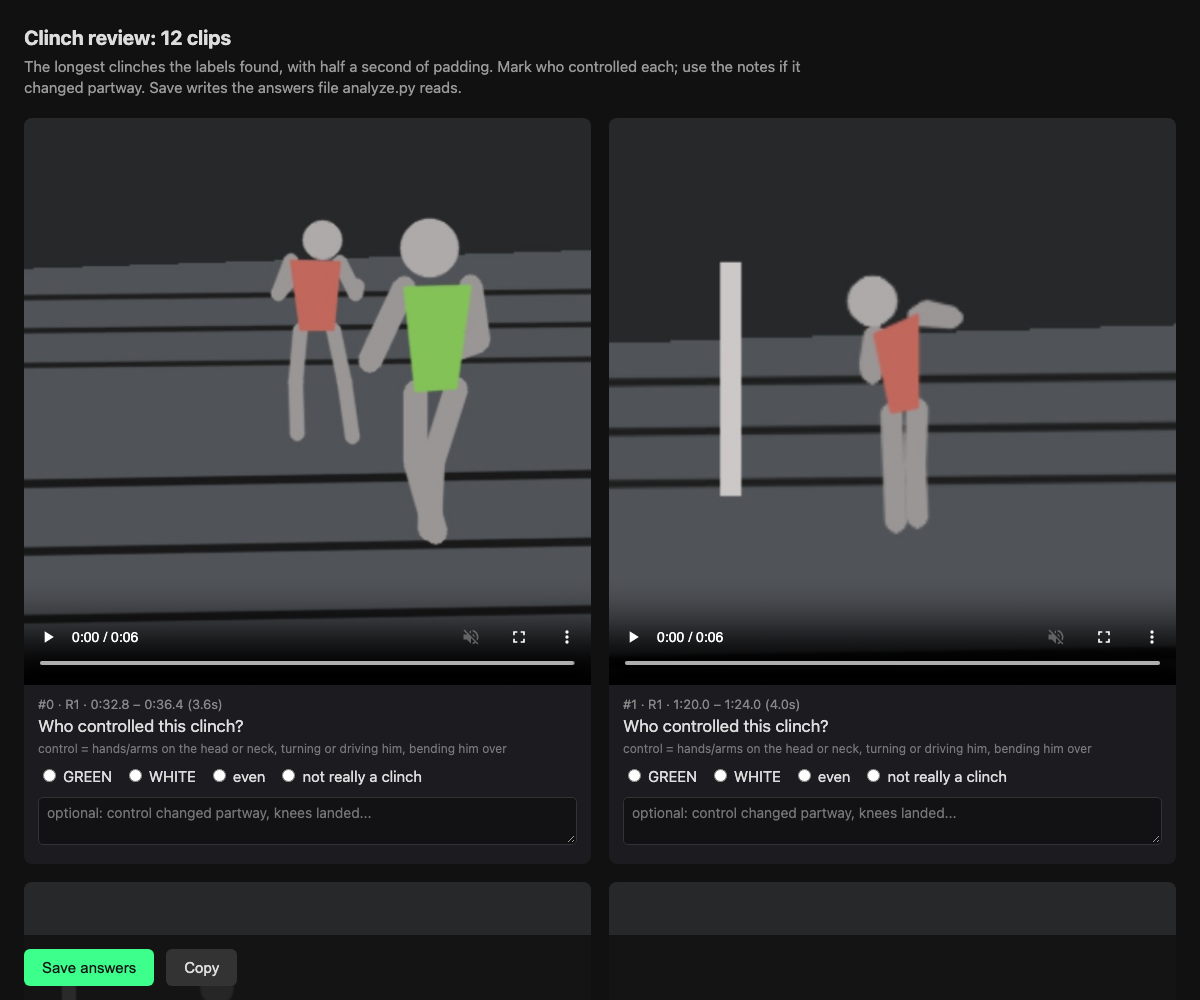
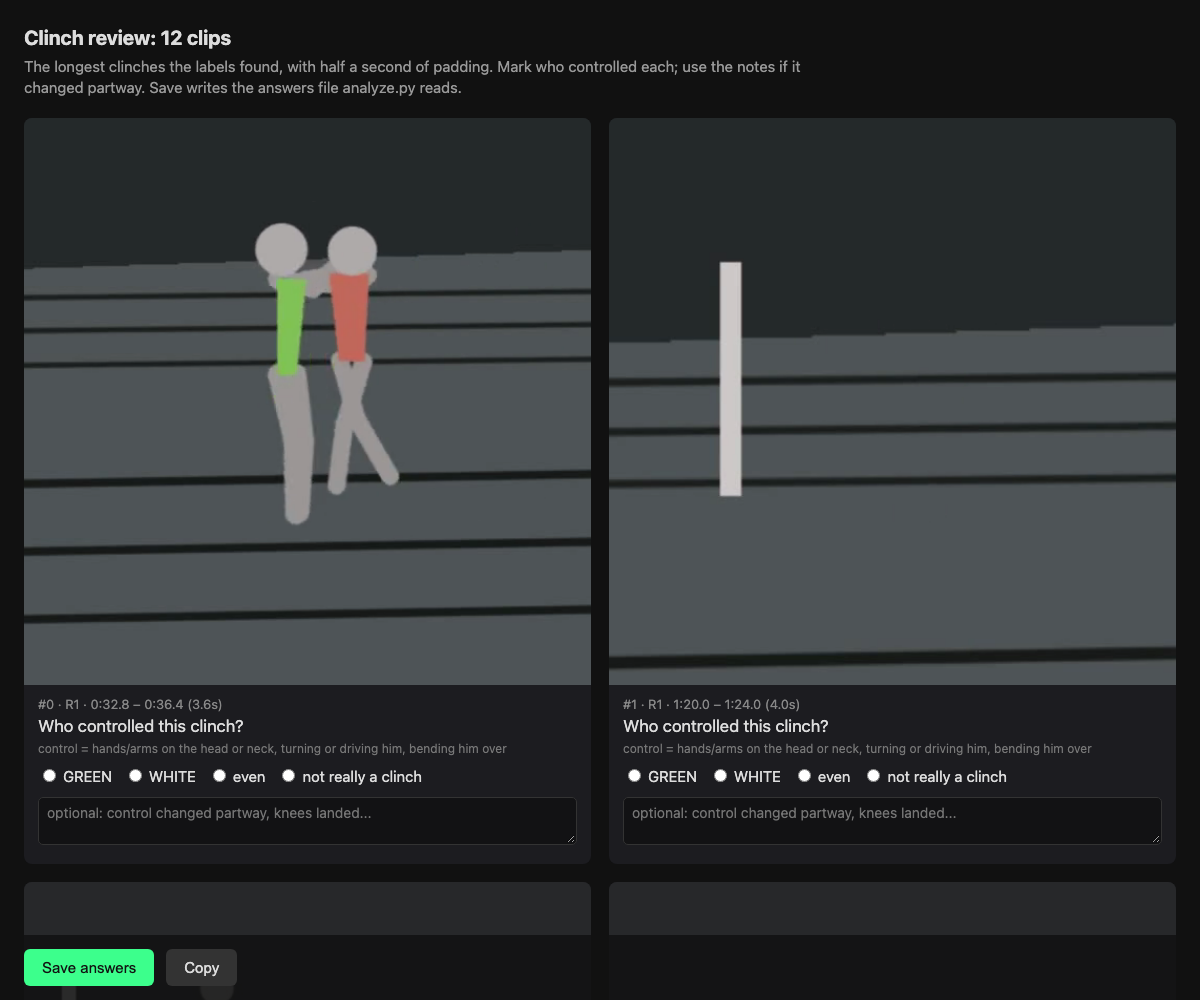
Add docs/make_screenshots.py to regenerate the README images
Builds a placeholder-only demo workdir from a fight, picks a clean,
well-tracked strike for the overlay and the labelling window with both
fighters visible, renders them as mannequins, then screenshots the
pipeline UI and both review pages with headless Chrome.

Changed region(s): [[0.0, 0.589, 0.9867, 0.682], [0.2158, 0.217, 0.4317, 0.558], [0.7092, 0.279, 0.8017, 0.527]]

diff --git a/docs/make_screenshots.py b/docs/make_screenshots.py
@@ -1,0 +1,210 @@
+"""Regenerate the README images in docs/ from a real fight, without showing real footage.
+
+    uv run python docs/make_screenshots.py                       # uses private/fight.json
+    uv run python docs/make_screenshots.py --config private/fight.json --overlay-at 392.4
+
+What it does:
+  1. builds a demo workdir (default private/demo) next to the fight: links to its pose
+     data, copies of its labels and clinch answers, and a config with a neutral timecode
+  2. renders everything there in --placeholder mode (tracked skeletons drawn as mannequins
+     on a drawn ring): review pages, an overlay clip, one labelling sheet
+  3. starts the pipeline UI on the demo workdir, runs one job so the log has output, and
+     screenshots the UI and both review pages with headless Chrome
+
+Needs: the fight's tracks + keypoints (track.py, analyze.py) and labels (merge_labels.py);
+Chrome or Chromium ($CHROME to point at it).
+"""
+import argparse
+import glob
+import json
+import os
+import pickle
+import shutil
+import socket
+import subprocess
+import sys
+import time
+import urllib.request
+
+ROOT = os.path.dirname(os.path.dirname(os.path.abspath(__file__)))
+sys.path.insert(0, ROOT)
+import fightconfig  # noqa: E402
+
+DOCS = os.path.join(ROOT, "docs")
+PY = sys.executable
+
+
+def sh(cmd, env=None):
+    print("+", " ".join(os.path.relpath(c, ROOT) if os.path.isabs(c) else c for c in cmd))
+    subprocess.run(cmd, cwd=ROOT, env={**os.environ, **(env or {})}, check=True,
+                   stdout=subprocess.DEVNULL)
+
+
+def find_chrome():
+    for c in (os.environ.get("CHROME"),
+              "/Applications/Google Chrome.app/Contents/MacOS/Google Chrome",
+              "/Applications/Chromium.app/Contents/MacOS/Chromium",
+              shutil.which("google-chrome"), shutil.which("chromium"), shutil.which("chromium-browser")):
+        if c and os.path.exists(c):
+            return c
+    sys.exit("Chrome/Chromium not found; set $CHROME")
+
+
+def build_demo(src, demo_dir):
+    """A workdir that reuses the fight's data but only ever holds placeholder media."""
+    if os.path.exists(demo_dir):
+        shutil.rmtree(demo_dir)
+    for d in ("data", "labels/review", "labels/strips", "out"):
+        os.makedirs(os.path.join(demo_dir, d))
+    for f in ["fight.mp4", "tracks.pkl", "K.pkl"] + [os.path.basename(p) for p in
+                                                     glob.glob(src.path("data", "tracks_app_*.pkl"))]:
+        target = os.path.abspath(src.path("data", f))
+        if os.path.exists(target):
+            os.symlink(target, os.path.join(demo_dir, "data", f))
+    for p in glob.glob(src.path("labels", "r*_events*.json")):
+        shutil.copy(p, os.path.join(demo_dir, "labels"))
+    for p in glob.glob(src.path("labels", "strips", "manifest_r*.json")):
+        shutil.copy(p, os.path.join(demo_dir, "labels", "strips"))
+    data = json.loads(json.dumps(src.data))
+    data.update(name="demo (placeholder media)", workdir=os.path.relpath(demo_dir, ROOT), official_result=None)
+    data["video"] = {"source": "path/to/full-event.mp4", "start": "0:00:00"}  # neutral timecode
+    cfg_path = os.path.join(demo_dir, "fight.json")
+    json.dump(data, open(cfg_path, "w"), indent=2)
+    return cfg_path
+
+
+def both_tracked(K, t):
+    import numpy as np
+
+    return all(t < len(K[n]) and not np.isnan(K[n][t, [5, 6, 11, 12], 0]).any() for n in K)
+
+
+def pick_moment(cfg, K):
+    """A clean strike (reviewed, if there was a review) that reads well in one frame: both
+    fighters tracked for as long as possible around it, and no other strike right next to it."""
+    cands = []
+    for r in range(1, len(cfg.rounds) + 1):
+        for name in (f"r{r}_events_corrected.json", f"r{r}_events.json"):
+            p = cfg.path("labels", name)
+            if not os.path.exists(p):
+                continue
+            ev = json.load(open(p))["strikes"]
+            for e in ev:
+                if e["outcome"] != "clean" or ("p_land" in e and not e.get("verified")):
+                    continue
+                span = sum(both_tracked(K, t) for t in range(e["t"] - 45, e["t"] + 45))
+                crowd = sum(1 for o in ev if o is not e and abs(o["t"] - e["t"]) <= 12)
+                cands.append((span - 30 * crowd, r, e["t"] / 30.0))
+            break
+    if not cands:
+        sys.exit("no clean strike found to centre the overlay on; pass --overlay-at")
+    _, r, t = max(cands)
+    return r, t
+
+
+def pick_window(manifest, K, at_frame):
+    """The labelling window near a moment with both fighters visible in the most tiles."""
+    near = [m for m in manifest if abs((m["frames"][0] + m["frames"][-1]) / 2 - at_frame) <= 60]
+    return max(near or manifest, key=lambda m: (sum(both_tracked(K, t) for t in m["frames"]),
+                                                -abs(m["frames"][0] - at_frame)))
+
+
+def free_port():
+    s = socket.socket()
+    s.bind(("127.0.0.1", 0))
+    port = s.getsockname()[1]
+    s.close()
+    return port
+
+
+def api(port, path, body=None):
+    req = urllib.request.Request(f"http://127.0.0.1:{port}{path}",
+                                 data=json.dumps(body).encode() if body is not None else None)
+    return json.load(urllib.request.urlopen(req, timeout=10))
+
+
+def main():
+    ap = argparse.ArgumentParser(description=__doc__, formatter_class=argparse.RawDescriptionHelpFormatter)
+    fightconfig.add_arg(ap)
+    ap.add_argument("--demo-workdir", default="private/demo")
+    ap.add_argument("--overlay-at", type=float, default=None,
+                    help="clip second for the overlay image (default: a reviewed clean strike + 0.4 s)")
+    args = ap.parse_args()
+    src = fightconfig.load(args.config)
+    demo_dir = os.path.join(ROOT, args.demo_workdir)
+    cfg_path = build_demo(src, demo_dir)
+    env = {"FIGHT_CONFIG": cfg_path}
+    demo = fightconfig.load(cfg_path)
+    K = pickle.load(open(src.path("data", "K.pkl"), "rb"))
+
+    # review pages (placeholder clips); the clinch review reuses the fight's answers if any
+    sh([PY, "make_review.py", "--name", "v1", "--placeholder"], env)
+    sh([PY, "make_clinch_review.py", "--name", "v1", "--placeholder"], env)
+    ans = src.path("labels", "review", "clinch_answers_v1.json")
+    clinch = []
+    if os.path.exists(ans):
+        shutil.copy(ans, demo.path("labels", "review"))
+        clinch = ["--clinch-review", f"{demo.path('review_clinch_v1')}:{demo.path('labels', 'review', 'clinch_answers_v1.json')}"]
+
+    # overlay: a 10 s placeholder render around a strike, one frame saved
+    if args.overlay_at is None:
+        rnd, t = pick_moment(src, K)
+        at = t + 0.4
+    else:
+        at = args.overlay_at
+        rnd = next((i + 1 for i, (a, b) in enumerate(src.rounds) if a <= at < b), len(src.rounds))
+    start = max(0.0, at - 4.4)
+    labels = []
+    for r in range(1, len(src.rounds) + 1):
+        for name in (f"r{r}_events_corrected.json", f"r{r}_events.json"):
+            if os.path.exists(demo.path("labels", name)):
+                labels.append(demo.path("labels", name))
+                break
+    out = demo.path("out", "overlay_placeholder.mp4")
+    sh([PY, "analyze.py", "--placeholder", "--range", f"{start}:{start + 10}", "--out", out,
+        *(["--labels", *labels] if labels else []), *clinch], env)
+    sh(["ffmpeg", "-v", "error", "-y", "-ss", f"{at - start:.2f}", "-i", out, "-frames:v", "1",
+        os.path.join(DOCS, "overlay.png")])
+    sh(["ffmpeg", "-v", "error", "-y", "-ss", f"{at - start:.2f}", "-i", out, "-frames:v", "1", out[:-4] + ".jpg"])
+
+    # one labelling sheet: the window containing that moment
+    strips = demo.path("strips_placeholder")
+    sh([PY, "make_strips.py", "--round", str(rnd), "--placeholder", "--outdir", strips], env)
+    import cv2
+
+    manifest = json.load(open(os.path.join(strips, f"manifest_r{rnd}.json")))
+    win = pick_window(manifest, K, round(at * 30))
+    sheet = cv2.imread(os.path.join(strips, win["file"]))
+    cv2.imwrite(os.path.join(DOCS, "labelling-sheet.jpg"), cv2.resize(sheet, (900, 900)),
+                [cv2.IMWRITE_JPEG_QUALITY, 88])
+
+    # the UI and the review pages, served from the demo workdir
+    port = free_port()
+    server = subprocess.Popen([PY, "web/server.py", "--port", str(port)], cwd=ROOT,
+                              env={**os.environ, **env}, stdout=subprocess.DEVNULL, stderr=subprocess.DEVNULL)
+    try:
+        for _ in range(60):
+            try:
+                api(port, "/api/state")
+                break
+            except OSError:
+                time.sleep(0.5)
+        job = api(port, "/api/run", {"step": "clinch_review", "params": {"name": "v1", "placeholder": True}})["id"]
+        for _ in range(300):
+            if api(port, f"/api/job/{job}")["status"] not in ("queued", "running"):
+                break
+            time.sleep(1)
+        chrome = find_chrome()
+        for page, name, size in (("/", "pipeline-ui.png", "1440,1250"),
+                                 ("/files/review_v1/index.html", "strike-review.png", "1200,1400"),
+                                 ("/files/review_clinch_v1/index.html", "clinch-review.png", "1200,1000")):
+            sh([chrome, "--headless=new", "--disable-gpu", "--hide-scrollbars", f"--window-size={size}",
+                "--virtual-time-budget=8000", f"--screenshot={os.path.join(DOCS, name)}",
+                f"http://127.0.0.1:{port}{page}"])
+    finally:
+        server.terminate()
+    print("updated:", ", ".join(sorted(os.path.basename(p) for p in glob.glob(os.path.join(DOCS, "*.[pj][np]g")))))
+
+
+if __name__ == "__main__":
+    main()

diff --git a/README.md b/README.md
@@ -90,7 +90,10 @@ uv run python analyze.py --labels <workdir>/labels/r{1,2,3}_events_corrected.jso
 ```
 
 Add `--placeholder` to `analyze.py`, `make_strips.py`, `make_review.py` or `make_clinch_review.py`
-to draw mannequins instead of real footage, for sharing or demos.
+to draw mannequins instead of real footage, for sharing or demos. `docs/make_screenshots.py`
+regenerates every image in this README that way. It builds a placeholder-only demo workdir from a
+fight, renders the overlay and a labelling sheet, and screenshots the UI and review pages with
+headless Chrome.
 
 ## The fight config
 
@@ -168,6 +171,7 @@ and in our test the model's control calls were close to random.
 - **`web/`:** the pipeline UI (stdlib HTTP server + one HTML page)
 - **`tests/test_label_strips.py`:** both labelling backends checked against a local fake API server
   (no key, no network)
+- **`docs/`:** README images and `make_screenshots.py`, which regenerates them
 - **`configs/`:** example fight config
 - **`private/`:** git-ignored. Fight data, labels, reviews and renders.
 
